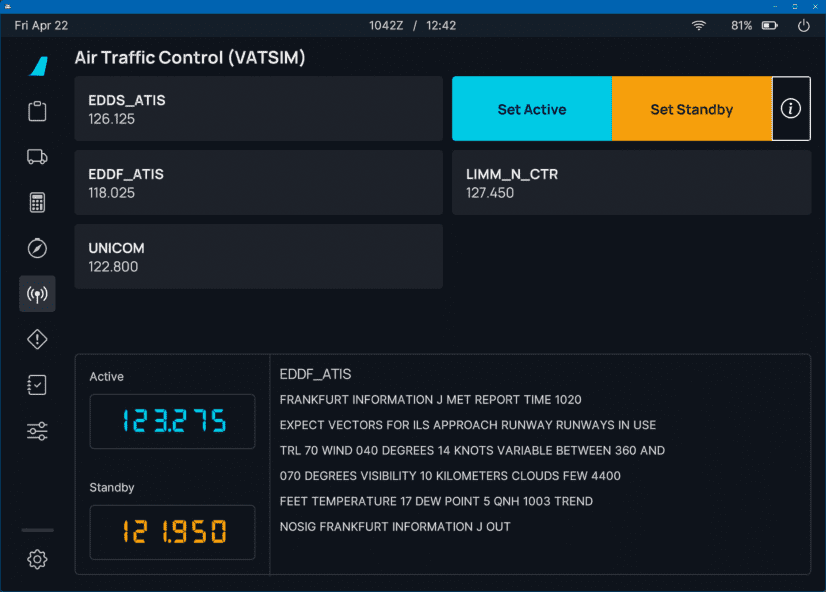
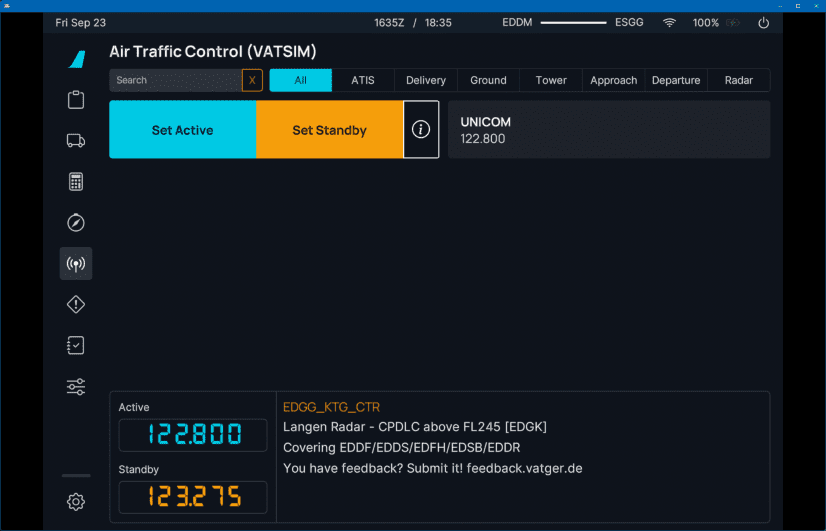
Updated screenshots and added filter description

diff --git a/docs/fbw-a32nx/feature-guides/flypados3/online-atc.md b/docs/fbw-a32nx/feature-guides/flypados3/online-atc.md
@@ -31,8 +31,7 @@ Go to the flyPad [ATSU/AOC settings page](settings.md#atsuaoc) and select your O
 ## Usage
 
 <div style="position: relative;">
-    <img src="/fbw-a32nx/assets/flypados3/flypad-online-atc-frequency.png" style="width: 100%; height: auto;" 
-loading="lazy">
+    <img src="/fbw-a32nx/assets/flypados3/flypad-online-atc-frequency.png" style="width: 100%; height: auto;" loading="lazy">
     <a href="../dashboard/">   <div class="imagemap" style="position: absolute; left: 1.7%; top:  6.9%; width: 5.8%; height: 7.0%;"><span class="imagemapname">Dashboard</span></div></a>
     <a href="../dispatch/">    <div class="imagemap" style="position: absolute; left: 1.7%; top: 14.1%; width: 5.8%; height: 7.0%;"><span class="imagemapname">Dispatch</span></div></a>
     <a href="../ground/">      <div class="imagemap" style="position: absolute; left: 1.7%; top: 21.1%; width: 5.8%; height: 7.0%;"><span class="imagemapname">Ground</span></div></a>
@@ -54,4 +53,15 @@ To get the ATIS information of the channel hover over the station and click on t
 
 To change a frequency hover over the station and click either `Set Active` or `Set Standby` depending on if you 
 want to immediately set the frequency as the active frequency or just as the standby frequency for later use. 
+
+### Filter the Station List
+
+![img.png](../../assets/flypados3/flypad-online-atc-filter.png)
+
+Use the search and predefined filters to find the station you are looking for. 
+
+You can type any string in the search field to filter the list for stations with names containing that string. The 
+`x` button clears the search field. 
+
+To filter for a specific type of station just click on the appropriate filter button.
 
